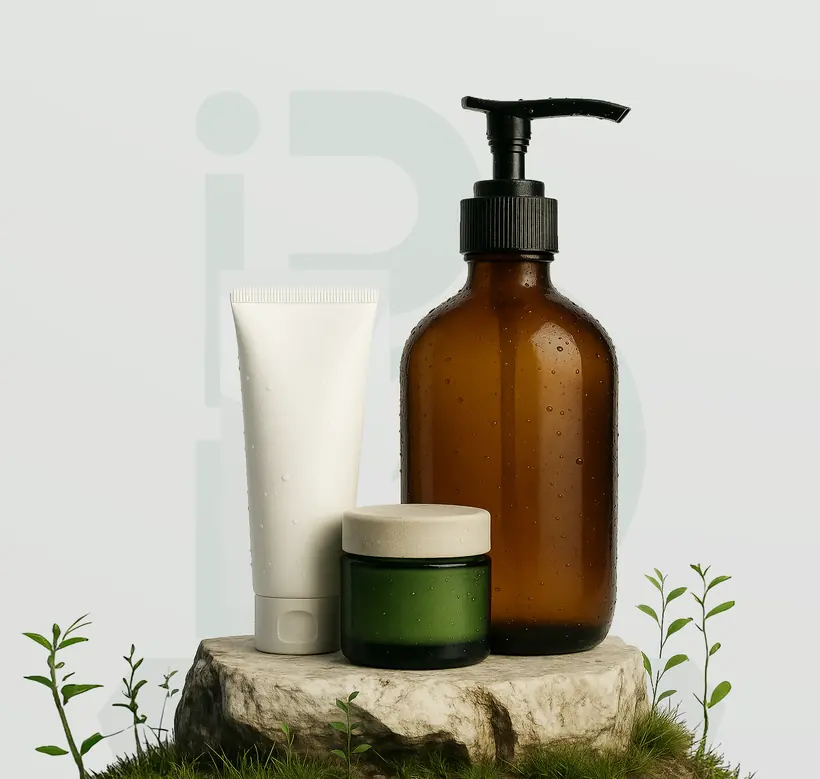
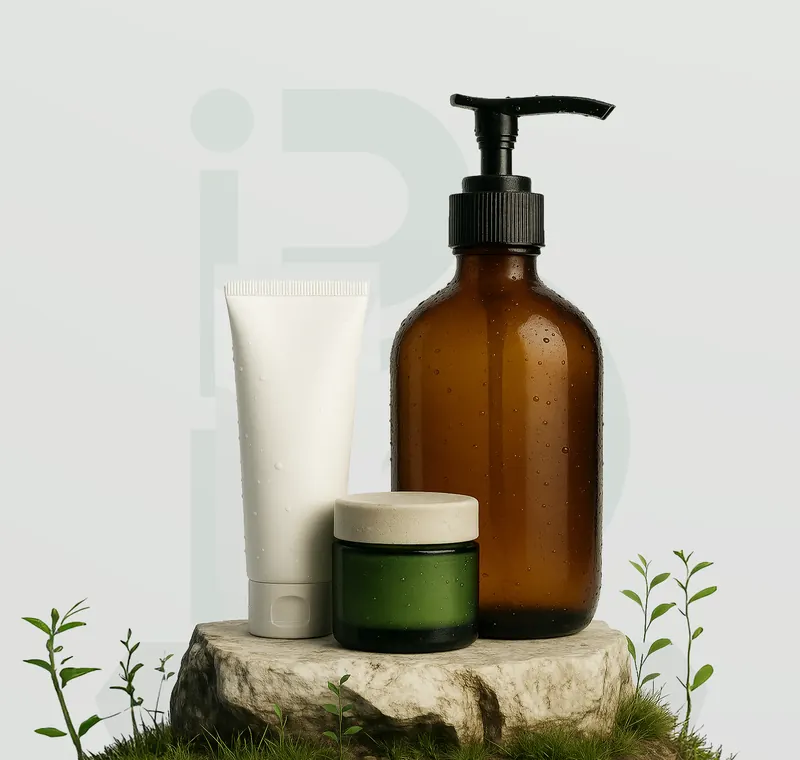
feat(patch-e): add category hub and clean hero blend

diff --git a/FULL_HANDOFF.md b/FULL_HANDOFF.md
@@ -1863,3 +1863,37 @@ Status:
 - Why Choose + copy alignment Desktop: PENDING OWNER TEST
 - Tablet: PENDING OWNER TEST
 - Mobile: PENDING OWNER TEST
+
+
+## PATCH-E6/E7 — HERO BLEND CLEANUP + MANUFACTURING CATEGORY HUB
+
+Owner status before this candidate:
+- PATCH-E5 Why Choose/content: temporarily accepted.
+- E4 Hero layout/content was accepted, then a later close visual review found a rectangular raster compositing artifact behind the tube.
+
+E6:
+- replace only assets/cosmetics-hero-bioa.webp with one flattened seamless composition;
+- preserve product objects, source hero DOM/geometry and cover/center behavior;
+- no second watermark layer.
+
+E7:
+- add #bioa-cosmetics-categories after #why-choose-us and before Packaging;
+- use the approved six /about/ taxonomy groups, PNGs, sizes and optical offsets;
+- large rounded 2-column cards on Desktop/Tablet; 1-column Mobile;
+- faint Bio-A monogram treatment inside cards;
+- no invented links before product subpage authority is finalized.
+
+Shared UX/Motion:
+- bioa-home-refine.mjs / addSharedPageReveal() remains motion authority;
+- section heading fade-up; cards staggered fade-up;
+- no new motion engine, no swiper transform changes.
+
+Protected:
+- Why Choose E5;
+- Packaging / Process / Certification / QC;
+- Header/Footer/Cookie/Chat/Mobile Menu/Zalo/language switching;
+- Home and /about/ PASS/LOCKED.
+
+Status:
+- E6 Desktop/Tablet/Mobile: PENDING OWNER TEST
+- E7 Desktop/Tablet/Mobile: PENDING OWNER TEST

diff --git a/docs/SOURCE_MAP.md b/docs/SOURCE_MAP.md
@@ -1447,3 +1447,30 @@ Related content consistency:
 
 Do not reorder these subjects independently of the source icons.
 Do not replace card 06 with a sustainability claim without verified Bio-A evidence.
+
+
+## PATCH-E6/E7 — cosmetics hero + manufacturing categories
+
+E6:
+- asset: assets/cosmetics-hero-bioa.webp
+- renderer: bioa-cosmetics-refine.mjs / applyHeroArtwork()
+- flattened watermark composition; never stack an extra DOM/CSS watermark above products.
+
+E7:
+- owner: bioa-cosmetics-refine.mjs / applyManufacturingCategorySection()
+- section: #bioa-cosmetics-categories
+- placement: after #why-choose-us, before Packaging.
+- taxonomy/assets: exact six /about/ accepted categories + about-icon-01...06.
+- exact About icon optical sizing/offsets reused.
+- 2 columns Desktop/Tablet, 1 column Mobile.
+- card watermark: /assets/bioa-monogram.svg.
+
+Motion:
+- owner: bioa-home-refine.mjs / addSharedPageReveal()
+- head -> fade-up
+- six cards -> staggered fade-up
+
+Semantic lock:
+- Why Choose = Bio-A capabilities/reasons.
+- Manufacturing Categories = product taxonomy.
+- never merge these two roles again.
